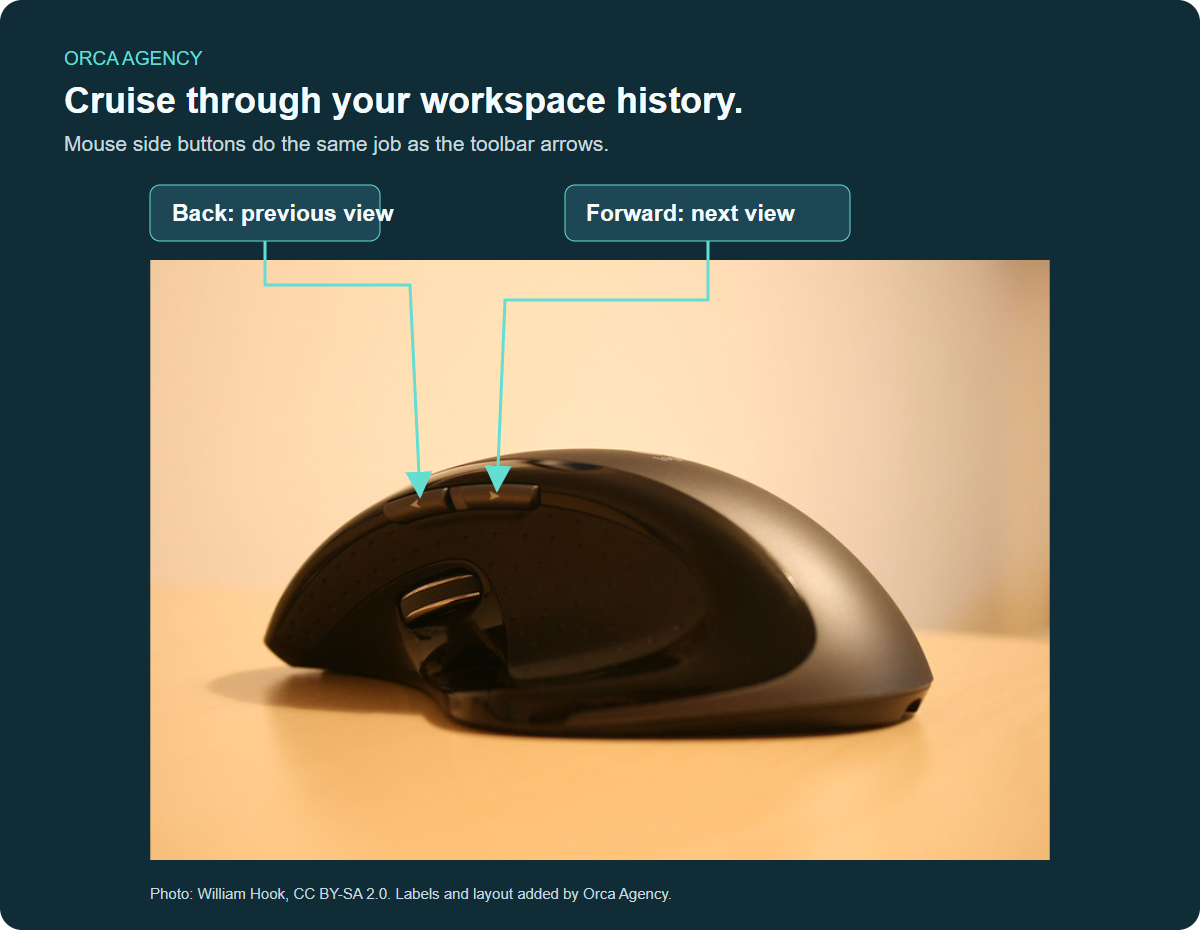
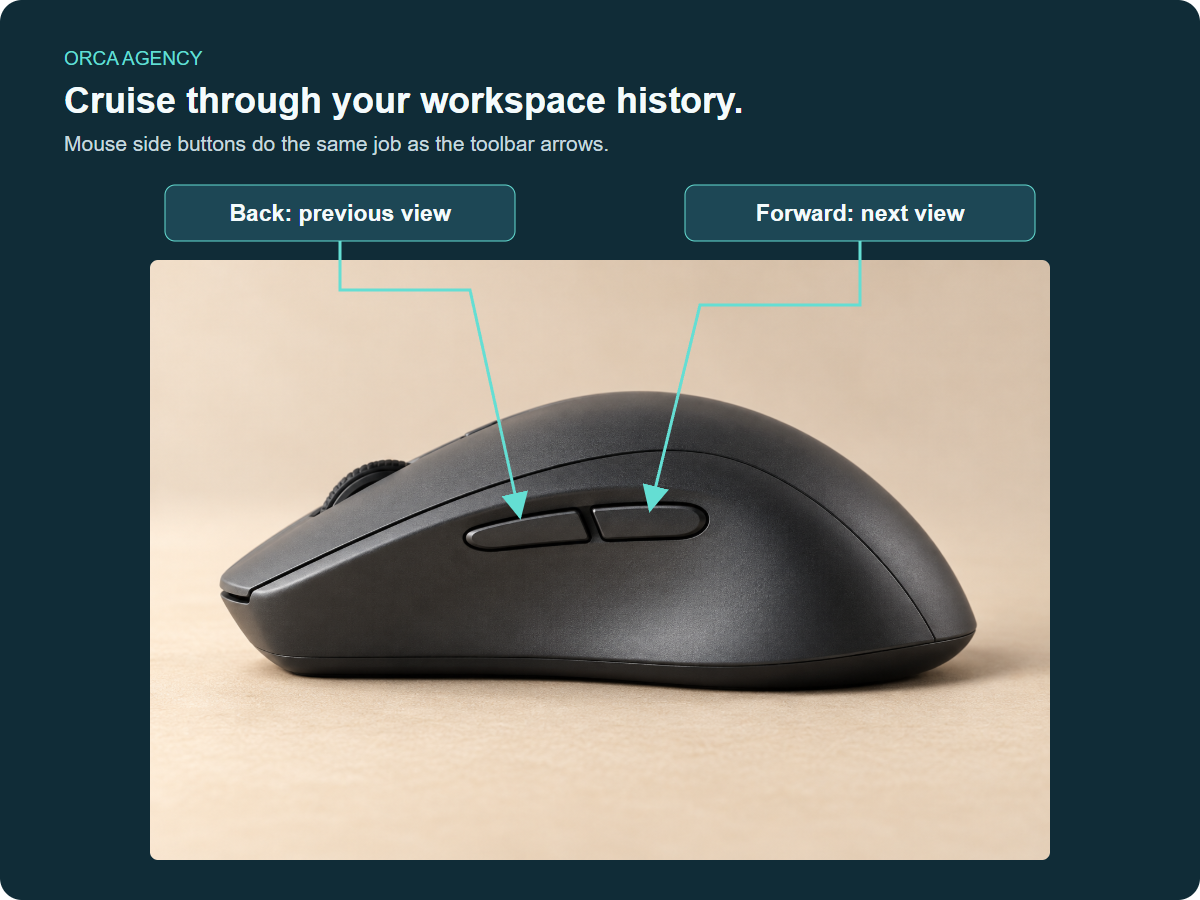
docs: refresh Agency voice and mouse history graphic
Use an original mouse image with fitted callouts and remove the old photo attribution. Keep GitHub copy concise with a few Orca references.

diff --git a/README.md b/README.md
@@ -2,11 +2,11 @@
 
 ## Your AI chats, organized for agency work
 
-Keep Claude and Codex conversations together across client folders. See which chats share a pane, which run side by side, and where your attention is needed.
+Keep Claude and Codex conversations together across client folders. See which chats share a pane, which run side by side, and where your attention is needed without fishing through tabs.
 
 **[Download the latest release](https://github.com/brooksgolden/Orca-Agency/releases/latest)** · [What's new](https://github.com/brooksgolden/Orca-Agency/releases) · [Upstream Orca](https://github.com/stablyai/orca)
 
-The current 1.4.1045 download is for **Windows ARM64**. The [earlier Windows x64 build](https://github.com/brooksgolden/Orca-Agency/releases/tag/v1.4.1008) remains available.
+The current 1.4.1055 download is for **Windows ARM64**. The [earlier Windows x64 build](https://github.com/brooksgolden/Orca-Agency/releases/tag/v1.4.1008) remains available.
 
 ![Orca Agency demo workspace with four panes and an organized Claude and Codex chat sidebar](media/workspace-overview.png)
 
@@ -24,7 +24,7 @@ The current 1.4.1045 download is for **Windows ARM64**. The [earlier Windows x64
 | **Native Windows ARM64**<br><br>A native build for Windows on ARM, including the terminal runtime. The local speech component is omitted. Native architecture is supported; terminal slowdowns remain under investigation. | <img src="media/native-arm64.svg" alt="Native ARM64 Windows app and terminal runtime" width="480"><br><sub>Architecture diagram.</sub> |
 | **Navigate with your mouse**<br><br>Mouse side buttons follow the same **Back and Forward history** as the toolbar arrows. Return to the previous view, then move forward again. | <img src="media/mouse-workspace-history.png" alt="Mouse side buttons labeled Back and Forward for workspace history" width="480"> |
 
-## Small touches that keep work flowing
+## Small touches that keep the pod moving
 
 - **One name everywhere:** Rename a chat in the sidebar and its tab follows.
 - **Open the file an agent mentions:** Relative file links resolve against the chat's workspace, with safeguards for ambiguous matches.
@@ -40,5 +40,3 @@ Upstream stable changes are integrated with the Agency additions through Codex i
 Use the [release page](https://github.com/brooksgolden/Orca-Agency/releases/latest) for available packages, architecture, installation instructions and verification results. Mac and Linux release binaries are not yet verified for this fork. Intermittent terminal stalls and activity indicator discrepancies remain known issues.
 
 Orca Agency is an independent, unofficial fork of [Orca](https://github.com/stablyai/orca). It retains the upstream MIT license, with no OpenAI or Anthropic affiliation. See the [upstream README](README.upstream.md), [update process](docs/agency/weekly-updates.md) and [license](LICENSE).
-
-<sub>Mouse photo: William Hook, CC BY-SA 2.0. Labels and layout added by Orca Agency. See the <a href="media/mouse-photo-attribution.md">media attribution</a>.</sub>
